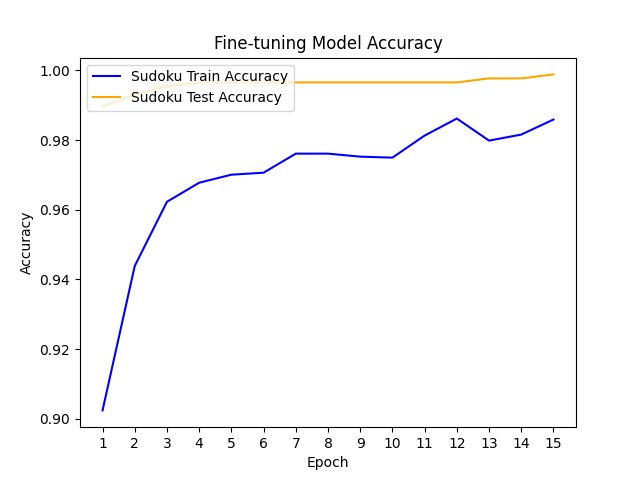
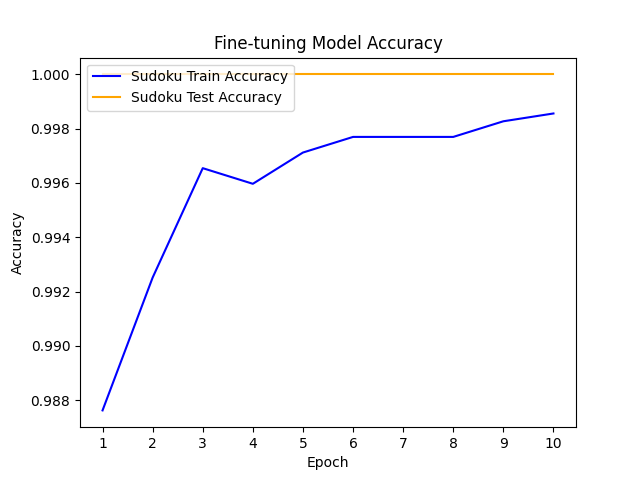
Improved model

diff --git a/digits_classifier/helper_functions_pt.py b/digits_classifier/helper_functions_pt.py
@@ -70,6 +70,7 @@ class MNISTClassifier(nn.Module):
     """
     v1 Source: https://nextjournal.com/gkoehler/pytorch-mnist
     v2 Source: https://github.com/PyTorch/examples/blob/main/mnist/main.py
+    Had to find better model due to not able to make mistake on android app
     """
     def __init__(self):
         super(MNISTClassifier, self).__init__()
@@ -100,6 +101,7 @@ def build_model(optimizer_name, **kwargs):
     # Init model network
     model = MNISTClassifier()
     name = optimizer_name.lower()
+
     if name == "adam":
         # All keyword args (lr, weight_decay, betas, etc.) go into Adam(...)
         optimizer = optim.Adam(model.parameters(), **kwargs)
@@ -111,8 +113,16 @@ def build_model(optimizer_name, **kwargs):
     elif name == "rmsprop":
         optimizer = optim.RMSprop(model.parameters(), **kwargs)
 
+    elif name == "adadelta":
+        # Adadelta typically only takes lr and rho; defaults mirror PyTorch example
+        optimizer = optim.Adadelta(model.parameters(), **kwargs)
+
     else:
-        raise ValueError(f"Unsupported optimizer: {optimizer_name!r}. "f"Choose from 'adam', 'sgd', 'rmsprop'")
+        raise ValueError(
+            f"Unsupported optimizer: {optimizer_name!r}. "
+            f"Choose from 'adam', 'sgd', 'rmsprop', 'adadelta'"
+        )
+
     return model, optimizer
 
 

diff --git a/digits_classifier/train_pt.py b/digits_classifier/train_pt.py
@@ -5,8 +5,9 @@ from tqdm import tqdm
 
 
 # Constants
-train_epochs = 10
-batch_size=32
+# Updated to follow the original pytorch mnist tutorial hyperparameters
+train_epochs = 14
+batch_size=64
 
 random_seed = 42
 torch.backends.cudnn.enabled = False
@@ -20,9 +21,8 @@ val_loader = get_mnist_dataset_loader('val', False, transform, batch_size)
 
 # Building model
 model, optimizer = build_model(
-    optimizer_name="sgd",
-    lr=0.01,
-    momentum=0.9,
+    optimizer_name="adadelta",
+    lr=1.0
 )
 
 # Print model summary
@@ -88,7 +88,7 @@ def train_one_epoch(model, optimizer, train_loader, epoch):
     # Record stats
     history['train_loss'].append(epoch_loss)
     history['train_acc'].append(epoch_acc)
-            
+
     # Checkpoint model weights & optimizer
     torch.save(model.state_dict(), f'models/pt_cnn/model_epoch{epoch}.pth')
     torch.save(optimizer.state_dict(), f'models/pt_cnn/optimizer_epoch{epoch}.pth')

diff --git a/digits_classifier/ft_pt_cnn.py b/digits_classifier/ft_pt_cnn.py
@@ -4,23 +4,30 @@ from tqdm import tqdm
 import torch.nn.functional as F
 
 # Constants
-epoch=15
-batch_size = 32
-lr = 0.001
+epoch=10
+batch_size = 64
+
 random_seed = 42
 torch.backends.cudnn.enabled = False
 torch.manual_seed(random_seed)
 
 
 # Load checkpoint
-ckpt_model_path = "models/pt_cnn/model_epoch10.pth"
+ckpt_model_path = "models/pt_cnn/model_epoch14.pth"
 # ckpt_optimizer_path = "models/pt_cnn/optimizer_epoch10.pth"
 # Load ckpt state
+# model, optimizer = build_model(
+#     optimizer_name="sgd",
+#     lr=lr,
+#     momentum=0.9,
+# ) # Pre-training was lr=0.01
+
 model, optimizer = build_model(
-    optimizer_name="sgd",
-    lr=lr,
-    momentum=0.9,
-) # Pre-training was lr=0.01
+    optimizer_name="adadelta",
+    lr=0.5
+)
+
+
 # Dont load the prev optimizer, since new dataset
 state_dict = torch.load(ckpt_model_path)
 model.load_state_dict(state_dict)

diff --git a/digits_classifier/__init__.py b/digits_classifier/__init__.py
@@ -28,8 +28,8 @@ def sudoku_cells_reduce_noise(digit_inv):
     # Relative area threshold
     # Total area of 28x28 image is 784 pixels
     total_area = digit_inv.shape[0] * digit_inv.shape[1]
-    # Calculate area threshold based on 1.5% of total area
-    frac = 0.015
+    # Calculate area threshold based on 1% of total area
+    frac = 0.010
     area_thresh = total_area * frac
     # Filter contours over 5 pixel square area
     cnts = [cnt for cnt in cnts if cv2.contourArea(cnt) > area_thresh]

diff --git a/digits_classifier/model_eval_pt.py b/digits_classifier/model_eval_pt.py
@@ -10,7 +10,7 @@ from PIL import Image
 # Load trained model
 device = torch.device("cuda" if torch.cuda.is_available() else "cpu")
 model = MNISTClassifier().to(device)
-state_dict = torch.load("models/pt_cnn/ft_model_epoch15.pth", map_location=device)
+state_dict = torch.load("models/pt_cnn/ft_model_epoch10.pth", map_location=device)
 model.load_state_dict(state_dict)
 model.eval()
 
